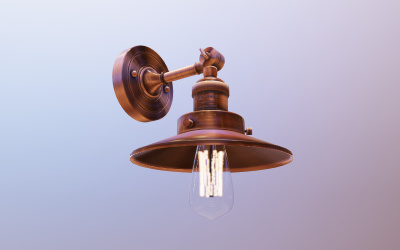
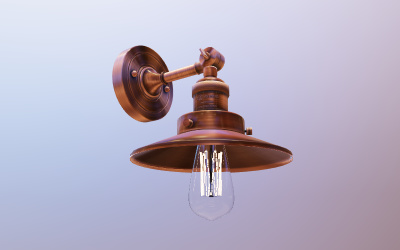
Transmission: custom transmission target sampling, roughness == 0 fast path, alpha clamp
transmission_pars_fragment uses transmissionSamplerMapTexelToLinear, roughness == 0 fast path, attenuationDistance == 0 guard, WebGL1 fallbacks under #ifndef WebGL2Context; transmission_fragment uses roughnessFactor; opaque_fragment clamps alpha.

Patch series of three-modded on top of r168 (restructured 2026-10-03 from the merge-based dev branch, content unchanged).

Includes the 0.168.10007/10008 fixes from master (9a5b202e54).

Claude-Session: https://claude.ai/code/session_01NVDeDKLWQDpkMcCQsKBGxe

Changed region(s): [[0.48, 0.588, 0.57, 0.812]]

diff --git a/src/renderers/shaders/ShaderChunk/transmission_pars_fragment.glsl.js b/src/renderers/shaders/ShaderChunk/transmission_pars_fragment.glsl.js
@@ -82,6 +82,14 @@ export default /* glsl */`
 
 	}
 
+	#ifndef WebGL2Context
+
+	#define textureLod texture2DLodEXT
+	#define textureSize(s, lod) vec2(1024./pow(2.,float(lod)),1024./pow(2.,float(lod)))
+	#define isinf(x) (x > 1e20 || x < -1e20)
+
+	#endif
+
 	vec4 bicubic( sampler2D tex, vec2 uv, vec4 texelSize, float lod ) {
 
 		uv = uv * texelSize.zw + 0.5;
@@ -143,15 +151,16 @@ export default /* glsl */`
 	}
 
 	vec4 getTransmissionSample( const in vec2 fragCoord, const in float roughness, const in float ior ) {
+		if(roughness == 0.0) return transmissionSamplerMapTexelToLinear( texture2D( transmissionSamplerMap, fragCoord.xy ) );
 
 		float lod = log2( transmissionSamplerSize.x ) * applyIorToRoughness( roughness, ior );
-		return textureBicubic( transmissionSamplerMap, fragCoord.xy, lod );
+		return transmissionSamplerMapTexelToLinear( textureBicubic( transmissionSamplerMap, fragCoord.xy, lod ) );
 
 	}
 
 	vec3 volumeAttenuation( const in float transmissionDistance, const in vec3 attenuationColor, const in float attenuationDistance ) {
 
-		if ( isinf( attenuationDistance ) ) {
+		if ( isinf( attenuationDistance ) || attenuationDistance == 0.0) {
 
 			// Attenuation distance is +∞, i.e. the transmitted color is not attenuated at all.
 			return vec3( 1.0 );

diff --git a/src/renderers/shaders/ShaderChunk/transmission_fragment.glsl.js b/src/renderers/shaders/ShaderChunk/transmission_fragment.glsl.js
@@ -24,7 +24,7 @@ export default /* glsl */`
 	vec3 n = inverseTransformDirection( normal, viewMatrix );
 
 	vec4 transmitted = getIBLVolumeRefraction(
-		n, v, material.roughness, material.diffuseColor, material.specularColor, material.specularF90,
+		n, v, roughnessFactor, material.diffuseColor, material.specularColor, material.specularF90,
 		pos, modelMatrix, viewMatrix, projectionMatrix, material.dispersion, material.ior, material.thickness,
 		material.attenuationColor, material.attenuationDistance );
 

diff --git a/src/renderers/shaders/ShaderChunk/opaque_fragment.glsl.js b/src/renderers/shaders/ShaderChunk/opaque_fragment.glsl.js
@@ -5,6 +5,7 @@ diffuseColor.a = 1.0;
 
 #ifdef USE_TRANSMISSION
 diffuseColor.a *= material.transmissionAlpha;
+diffuseColor.a = min(max(diffuseColor.a, 0.), 1.);
 #endif
 
 gl_FragColor = vec4( outgoingLight, diffuseColor.a );
